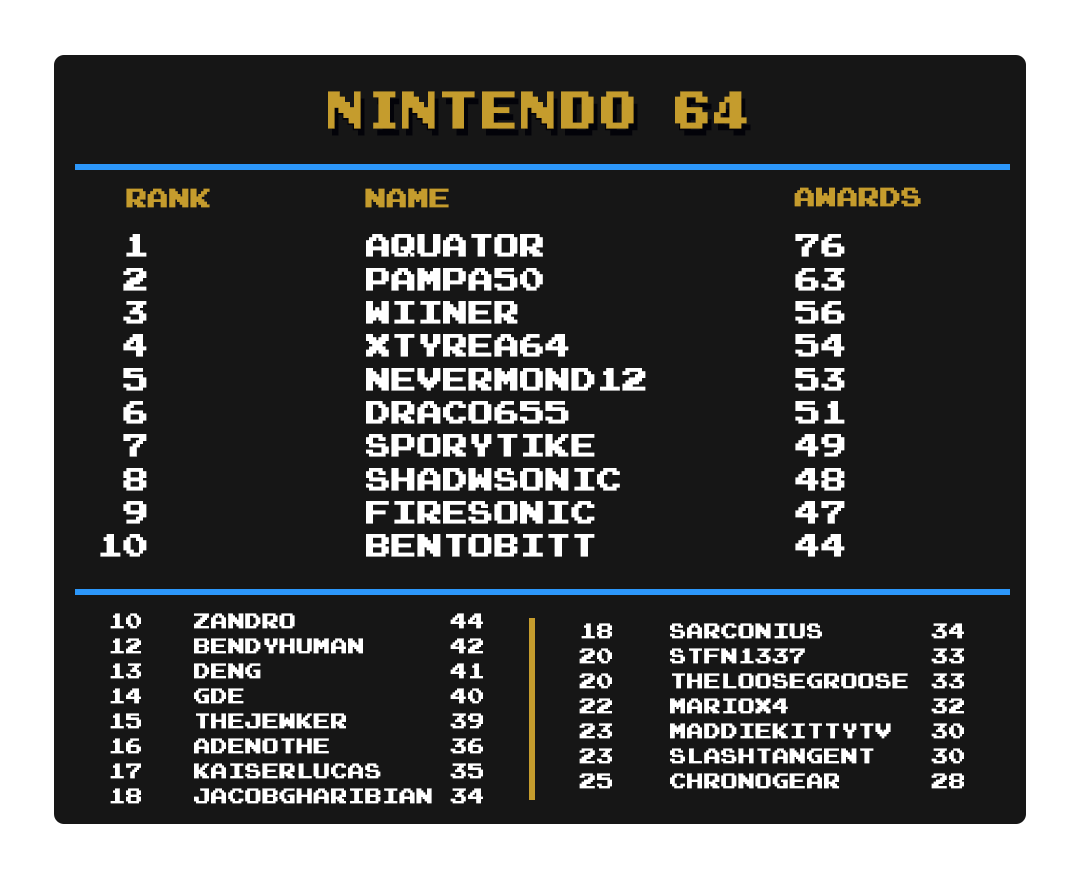
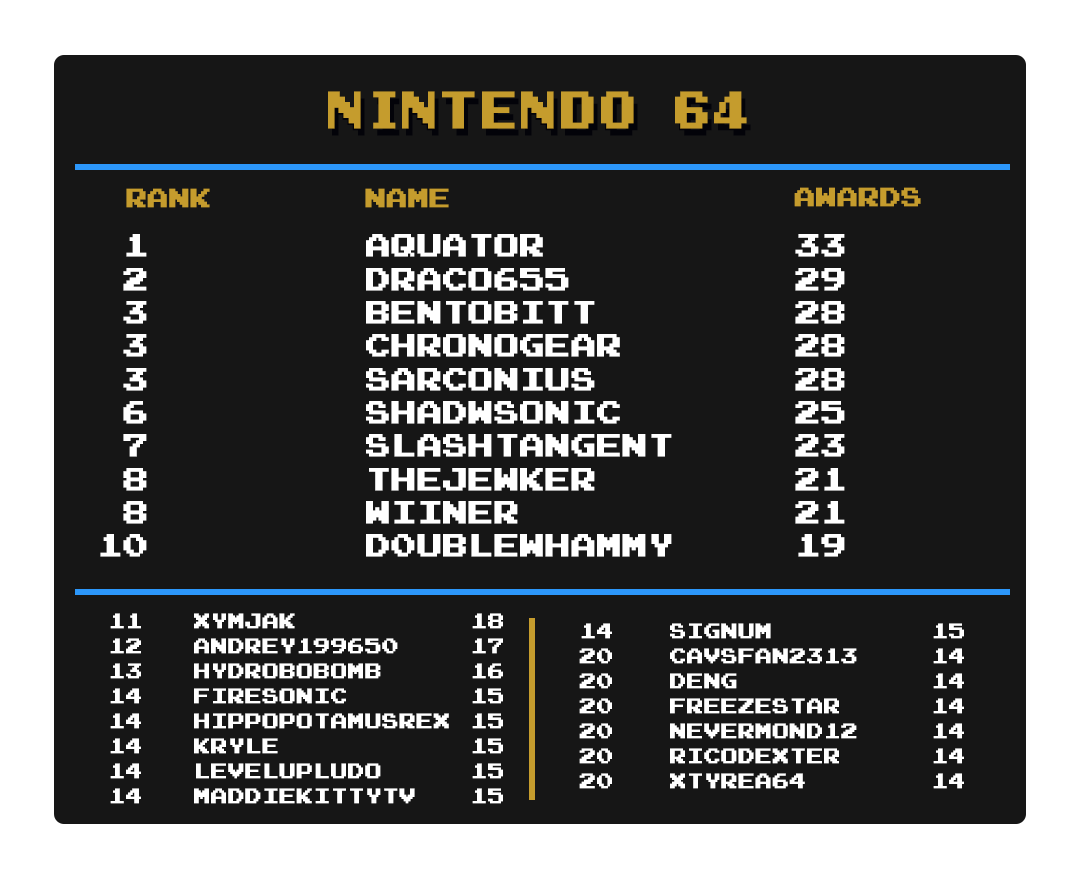
N64 Top Mastery Fix.

diff --git a/_issues/2021-11/top-masteries.md b/_issues/2021-11/top-masteries.md
@@ -32,7 +32,7 @@ Special thanks to {% rauserpic Nydaxn %} for creating the ranking images. Ranks 
 | Master System        | {% rauserpic Jungon %}                                                         | 48             |
 | Mega Drive           | {% rauserpic DUT %}                                                            | 99             |
 | MSX                  | {% rauserpic deng %}                                                           | 5              |
-| N64                  | {% rauserpic Aquator %}                                                        | 76             |
+| N64                  | {% rauserpic Aquator %}                                                        | 33             |
 | NES                  | {% rauserpic SanMarino %}                                                      | 229            |
 | Nintendo DS          | {% rauserpic Bendyhuman %}, {% rauserpic ShadwSonic %}                         | 26             |
 | PC Engine            | {% rauserpic Infernum %}                                                       | 20             |
@@ -132,7 +132,8 @@ Special thanks to {% rauserpic Nydaxn %} for creating the ranking images. Ranks 
 
 ![Top Mastery Ranking](img/top-mastery-n64.png)
 - {% rauserpic Aquator %} continues to hold onto the top spot.
-- {% rauserpic ShadwSonic %} has jumped up 13 spots to 8th place with 17 new mastery awards this month.
+- {% rauserpic ChronoGear %} and {% rauserpic Sarconius %} are now tied in 3rd place with {% rauserpic BenTobitt %}.
+- {% rauserpic HippopotamusRex %} has made it into the top 25 and is sitting in a 6-way tie for 14th place.
 
 ### NES
 
